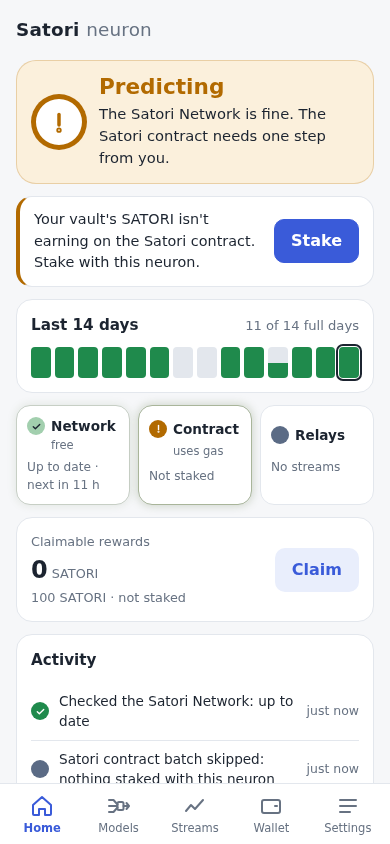
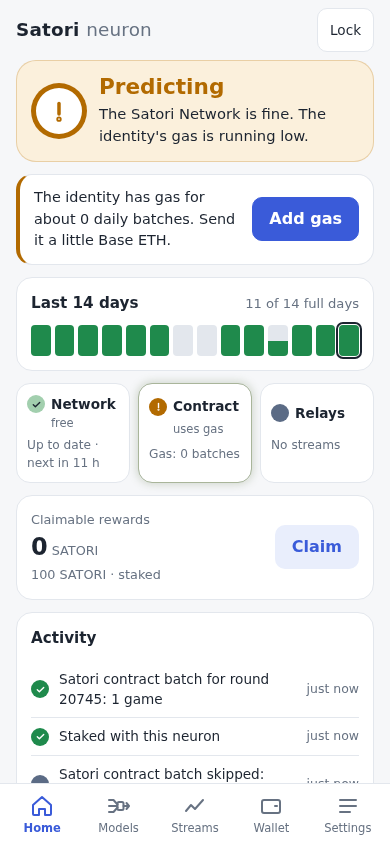
docs: staking out of sync (health, base, the issue: fixed on humble 86e2bdb3, live once D7 deploys; llms.txt); screenshots from the fork

Changed region(s): [[0.0308, 0.0924, 0.9538, 0.955], [0.7692, 0.8009, 0.9231, 0.9242], [0.8615, 0.0308, 0.9231, 0.0616]]

diff --git a/docs/design/health.md b/docs/design/health.md
@@ -128,11 +128,12 @@ push out the neuron's own news.
 
 ### Reasons, in priority order
 
-The action card shows the highest one that has an action, so there is at
-most one card. Its button does the thing, or goes to the place it is done.
-The order is by level (`LEVEL` in `src/neuron/health.js`), so advice owns
-the card only when no warn or bad reason is present (each of those has a
-button).
+The action card shows the highest one that has words for it (`text`), so
+there is at most one card. Its button does the thing, or goes to the place
+it is done; `stake-out-of-sync` alone has no button (there is nothing to
+press until the contract fix: the card says what to know). The order is by
+level (`LEVEL` in `src/neuron/health.js`), so advice owns the card only when
+no warn or bad reason is present.
 
 | # | Reason | Level | Why this level | Channel | When | Button |
 |---|---|---|---|---|---|---|
@@ -141,17 +142,18 @@ button).
 | 3 | `central-failing` | bad | the failures span a real cycle: nothing went out for 12 h of open time | network | the last cycle failed, and no good cycle within `WINDOW_S` of open time (`FIRST_S` with none yet) | Try again (a poll) |
 | 4 | `central-overdue` | bad | nothing went out for a whole cycle of open time | network | no good cycle within `WINDOW_S` of open time (`FIRST_S` with none yet) | Poll now |
 | 5 | `base-failing` | bad | the paying Base batch keeps failing: each round's earning is lost | contract | the batch check failed twice in a row while Base is in use (staked, or a batch sent before) | Open Settings (Base) |
+| 5b | `stake-out-of-sync` | bad | the vault's SATORI can't be unstaked until the contract fix (the token-hook bug), and more SATORI in the vault only adds to it | contract | staked with this neuron, the identity accepts only this vault, and its power is under the vault's SATORI (`base.vault.inSync === false`, [below](#staking-out-of-sync)) | none: the card says "Unstaking will fail until the contract fix. Don't add SATORI to the vault." |
 | 6 | `relays-down` | bad | the streams the person subscribed are not predicted at all | relays | streams are subscribed and every relay is down | Open Settings (relays) |
 | 7 | `central-failed` | warn | it retries in minutes on its own (2, 10, 30 min), but something may need fixing | network | the last cycle failed (once or more), within `WINDOW_S` of open time of the last good one | Try again |
 | 8 | `vault-mismatch` | warn | central pays this vault's rewards to another address, or to none: earning lost | network | register's `vault_base_address` is another Base address than this vault's (the card shows both), or null (central has no vault for this identity); not when a central does not send it | Open Settings (keys) |
 | 9 | `not-registered` | warn | central may not count or pay this neuron until it registers | network | registering failed (each poll registers again first, until it succeeds) | Try again (a poll) |
-| 10 | `stake` | warn | the vault's SATORI earns nothing on Base until it is staked (with no SATORI there is no reason: the Base chip is off, grey) | contract | not staked, and the vault holds SATORI: "Your vault's SATORI isn't earning on Base. Stake with this neuron." | Stake |
 | 11 | `gas-low` | warn | under 7 days of batches left, then Base earning stops; only the person can add ETH | contract | staked, and the identity's ETH pays for under 7 batches | Add gas (Wallet) |
 | 12 | `base-skipped` | warn | this round's Base batch, and its earning, is lost unless it is fixed | contract | staked, and this round's check skipped for a fixable reason (the gas ceiling; no game passed its simulation) | Open Settings (Base) / Open Wallet |
 | 13 | `base-unreachable` | warn | the Base batch and the wallet can't be read or sent while the chain does not answer | contract | the chain did not answer | Open Settings (Base) |
 | 14 | `asleep` | idle | not a problem: it catches up on its own; a calm state the title names | network | *Was asleep* (above) | none |
 | 15 | `starting` | idle | not a problem: its first poll runs at once; a calm state the title names | network | *Starting* (above) | none |
 | 16 | `backup` | advice | nothing is wrong: the browser may clear storage some day, and a backup protects the vault | – | storage is not persistent and no backup is confirmed | Back up |
+| 16b | `stake` | advice (warn until 2026-10-19) | nothing is wrong: the vault's SATORI could earn on the Satori contract, and staking carries a known risk until the contract fix, which the card says before staking; the chip stays "Not staked" (off, grey) | contract | not staked, and the vault holds SATORI: "Stake with this neuron to earn on the Satori contract. While staked, your SATORI can't be sent until you unstake. A known contract issue can block unstaking; a fix is coming in the next contract release." | Stake |
 | 17 | `install` | advice | nothing is wrong now: installed, Satori stays open in its own window and misses less | – | *Was asleep*, and the browser offers Install | Install |
 | 18 | `relay-down` | advice | another relay still carries the predictions and it keeps retrying; the network is not paid | relays | streams are subscribed and some relay, not all, is down | Open Settings (relays) |
 
@@ -175,6 +177,50 @@ states the title names (*Was asleep*, *Starting*), their line says what the
 neuron is doing, and they have no button. They keep the status `idle`,
 green on Home. The Install suggestion that `asleep` carried is its own
 advice reason now, `install`, so each reason has one level.
+
+### Staking out of sync
+
+The token-hook bug ([../issues/token-hook-gas-estimate.md](../issues/token-hook-gas-estimate.md),
+live on D6 until D7 deploys): SATORI that reaches a staked vault in a
+transaction sent with a normal gas estimate (anyone can send 1 wei, or call
+`claimAirdropFor(vault)`) lands in its balance but not in the identity's
+booked power, and unstaking then underflows (Panic 0x11), for good, until the
+contract fix. So while it is live:
+
+- **Stake is advice, not warn** (2026-10-19): Home is no longer amber for an
+  unstaked vault, and the card says the risk, short and calm, before
+  anyone stakes. The Wallet card's staking note says it too.
+- **The frozen state is detected exactly.** Once the identity accepts only
+  this vault (`allowedDelegator == vault`, set by Stake) and the vault
+  stakes with it, the vault is the identity's only staker, so
+  `predictionDelegateInfo(identity).power` must equal the vault's SATORI
+  (both in the status multicall, one block). Under it is `stake-out-of-sync`
+  (bad): the hero "Staking is out of sync.", the Contract chip "Out of
+  sync", a card with no button ("Unstaking will fail until the contract fix.
+  Don't add SATORI to the vault."), the Wallet card's line and its Staking
+  fact ("· out of sync"). The batch still goes out (the identity keeps its
+  power), so the title stays *Predicting*: only `base-failing` makes it
+  *Partly predicting*.
+- **Not checked** when `allowedDelegator` is not the vault (another
+  address, or open to anyone): other stakers are possible, and their SATORI
+  in the power would hide or fake a shortfall, so nothing is said
+  (`inSync: null`). Also not when not staked here, or not read.
+- **Unstake** simulates first; the underflow (Panic 0x11) is said in the same
+  plain words ("Staking is out of sync. Unstaking will fail until the
+  contract fix. Don't add SATORI to the vault."), not "reverted: Panic", and
+  nothing is sent.
+
+Checked live on the fork of Base Sepolia (the real D6 contracts; 2026-10-19,
+the dev app, a fresh profile): Stake (three transactions), then `node
+scripts/fork.mjs grief <vault>`: 1 wei at the bare estimate (110,514 gas),
+`TransferHookFailed`; the identity's power 100, the vault's SATORI
+100.000000000000000001: Home red with the reason, the Wallet card and
+Unstake said it, and `satori.unstake()` rejects with it.
+
+<img src="../screenshots/stake-out-of-sync-home.png" alt="Home: Staking is out of sync" width="240"> <img src="../screenshots/stake-out-of-sync-wallet.png" alt="the Wallet card and Unstake's answer" width="240">
+
+The card has no button here: the card is the highest reason with words for
+it (a reason with an action has a button; this one has only what to know).
 
 **Backup confirmed** (`meta.backup_at`) is set when the vault's words are
 confirmed in Create, given at Restore (also `setup({ vaultWords })`), brought
@@ -358,9 +404,9 @@ health.js map them).
   "Database error", "Login refused", the same failure words once they span
   12 h of open time, "Nothing sent for 14 h".
 - **Contract** (the Satori contract): ok "Round 20742 sent", "Round 20742 due"; idle "Not staked"
-  (no SATORI), "Staked elsewhere", "No SATORI staked", "Connecting…"; warn
-  "Not staked", "Gas: 3 batches", "Skipped: …", "Unreachable"; bad "Failed 3
-  times".
+  (off: with SATORI too, since staking is advice), "Staked elsewhere", "No SATORI staked", "Connecting…"; warn
+  "Gas: 3 batches", "Skipped: …", "Unreachable"; bad "Failed 3
+  times", "Out of sync".
 - **Relays** (the Satori relays): idle "No streams" (nothing subscribed); ok "2 relays"; advice
   "1 of 2 relays down" (sky, or green while working); bad "Relays down". A
   relay that is connecting counts as up.
@@ -565,7 +611,11 @@ each state on a phone (390 × 844, the first screen) and a computer (1280
 wide), light and dark, `docs/screenshots/home-<state>-<phone|desktop>-<light|dark>.png`
 for `ok`, `idle`, `warn` and `bad`, and `new` (a new neuron's first day).
 
-<img src="../screenshots/home-ok-phone-light.png" alt="ok: predicting" width="240"> <img src="../screenshots/home-idle-phone-light.png" alt="idle: caught up after being asleep, predicting" width="240"> <img src="../screenshots/home-warn-phone-dark.png" alt="warn: Base needs one step" width="240"> <img src="../screenshots/home-bad-phone-dark.png" alt="bad: the Satori Network refused the login" width="240">
+<img src="../screenshots/home-ok-phone-light.png" alt="ok: predicting" width="240"> <img src="../screenshots/home-idle-phone-light.png" alt="idle: caught up after being asleep, predicting" width="240"> <img src="../screenshots/home-warn-phone-dark.png" alt="warn: the identity's gas is low" width="240"> <img src="../screenshots/home-bad-phone-dark.png" alt="bad: the Satori Network refused the login" width="240">
+
+The Stake card, advice (the hero stays green; the risk said before staking):
+
+<img src="../screenshots/home-stake-phone-light.png" alt="the Stake card as advice" width="240">
 
 A failed send, retried (`e2e/home.spec.js`, the second failure minutes
 after the first: amber, "Sending failed; next try in 10 min."; it was red):

diff --git a/docs/design/base.md b/docs/design/base.md
@@ -99,6 +99,7 @@ One `aggregate3` call to Multicall3 (`src/chain/index.js`, `status()`), plus
 | `rewards.effectivePredictorFee(identity)` | 10 % until set to 0 (`C/SatoriRewards.sol:119-143`) |
 | `hub.allowedDelegator(identity)` | the one vault that may stake with the identity (`C/next/SatoriHub.sol:813-819,1007`) |
 | `token.transferLockedUntil(vault)` | when the vault's SATORI can be sent |
+| (the identity's power and `allowedDelegator`, the vault's SATORI, above) | whether the stake is booked right: `vault.inSync` ([below](#staking-out-of-sync-the-token-hook-bug)) |
 | `token.getCurrentRound()`, `getCurrentBlockTimestamp()` | the round (`block.timestamp / 86400`, `C/next/SatoriToken.sol:329-331`) and chain time |
 | `lens.getTotalClaimableRewards(vault)` | on-chain rewards (`C/SatoriRewardsLens.sol:319-324`) |
 | `airdrop.claimableAirdrop(vault)` | the vested airdrop (`C/SatoriAirdrop.sol:187-191`) |
@@ -133,6 +134,41 @@ plus the dapp's instant-signing setup (`UI/components/GameWalletPanel.tsx:536-59
 
 **Unstake**: the vault sends `delegatePredictionPower(0x0)`
 (BP:292-301). Its SATORI can't be sent through the next round (above).
+
+### Staking out of sync (the token-hook bug)
+
+On D6 (until D7 deploys the fix from `humble` 86e2bdb3), SATORI that reaches
+a staked vault in a transaction sent with the node's gas estimate (anyone's
+1 wei, `claimAirdropFor(vault)`) skips the hook that books it into the
+identity's power, and unstaking then underflows (Panic 0x11) for good
+([issue](../issues/token-hook-gas-estimate.md)). So, while it is live:
+
+- Home offers Stake as advice (not warn), and its card, like the Wallet
+  card's staking note, says the risk before staking: "While staked, your
+  SATORI can't be sent until you unstake. A known contract issue can block
+  unstaking; a fix is coming in the next contract release."
+- `stakeSync` (`src/neuron/base.js`) checks it exactly from the status
+  multicall: once the identity accepts only this vault (`allowedDelegator ==
+  vault`) and the vault stakes with it, the vault is its only staker, so
+  `predictionDelegateInfo(identity).power` must equal `balanceOf(vault)`.
+  `status().base.vault.inSync`: `true`; `false` when the power is under the
+  balance (`shortfall`: the SATORI not booked), Home's bad reason
+  `stake-out-of-sync` ([health.md](health.md#staking-out-of-sync)) and the
+  Wallet card's line; `null` (not checked) when `allowedDelegator` is
+  another address or none (other stakers are possible, so their SATORI
+  could hide or fake a shortfall), when not staked here, or not read.
+- Unstake simulates first: the underflow is said plainly ("Staking is out of
+  sync. Unstaking will fail until the contract fix. Don't add SATORI to the
+  vault.") and nothing is sent.
+- On D7 a starved transfer reverts with `HookFailedWithoutReason()` instead
+  (in `NEXT_ERRORS`, `src/chain/abi.js`, apart from the D6 ABI check), said
+  as "The transaction ran out of gas; try again".
+
+Reproduced on the fork (the real D6 contracts, 2026-10-19): Stake, then
+`node scripts/fork.mjs grief <vault>` (1 wei at the bare estimate, 110,514
+gas, `TransferHookFailed`): power 100, balance 100.000000000000000001,
+`inSync: false`, Home red, Unstake refused in plain words
+([screenshots](health.md#staking-out-of-sync)).
 
 Words: "Stake with this neuron" / "Unstake", "Staked: 100 SATORI with this
 neuron" / "Not staked", as Lite says it ("Stake your vault & predict on
@@ -339,6 +375,7 @@ gas price. Measured on the fork: 408k gas for a round's first one-game batch,
 | The vault's Base address is computed from its public key, in clear in the keys record. | Status without Unlock; Lite needs the decrypted vault. |
 | The dev server's default RPC is a local fork (`/rpc`). | By default a dev checkout does not send to a public chain. |
 | Every contract write's gas limit is the estimate + 500,000. | The token's try/catch hook ([issue](../issues/token-hook-gas-estimate.md)). |
+| Stake is offered as advice with the risk said, and a stake out of sync is detected and shown (Lite and the dapp do neither). | The token-hook bug is live on D6: staking can freeze the vault, through anyone else's transaction. |
 | A named stream (a signed counter) is forecast on changes (`bar1d`). | Lite's engine falls back to the last value, which votes DOWN forever. |
 
 ## UI and agents
@@ -484,5 +521,9 @@ The Wallet's card staked, with the batch and the Stake transactions
   stream's next value moves (and stakers' rewards can show).
 - `stream [name]`: a new stream from the deployer (a 0.001 SATORI burn) with
   one value; its game has no voting weight, so the batch leaves it out.
+- `grief <address>`: the token-hook bug: 1 wei of SATORI from the deployer
+  with the bare gas estimate, as any wallet sends it; it prints the hook
+  events (`TransferHookFailed` on anvil). A staked vault is then out of
+  sync and can't unstake until D7.
 - `stop [--port 8545]`: stops the fork `start` began (its pid is in
   `.fork.<port>.pid`, its log in `.fork.<port>.log`).

diff --git a/docs/issues/token-hook-gas-estimate.md b/docs/issues/token-hook-gas-estimate.md
@@ -1,6 +1,25 @@
 # A staked vault that receives SATORI with an estimated gas limit can never unstake
 
-**Status:** open · **Kind:** fixable flaw (contracts) · **Fix in:** `contract/satori` (a rewards upgrade now; the token and hub at the next redeploy) · **Severity:** anyone can trap any staked vault's SATORI for good, today
+**Status:** Fixed in contracts (humble 86e2bdb3); live once D7 deploys · **Kind:** fixable flaw (contracts) · **Fix in:** `contract/satori` branch `humble` (86e2bdb3, sweep item B1, stamped in 43412a4a) · **Severity:** on D6 (deployed from d9d22632), anyone can trap any staked vault's SATORI for good, until D7
+
+**The fix (contracts, humble 86e2bdb3).** The token reverts a transfer with
+`HookFailedWithoutReason()` when its hook fails with no revert data (out of
+gas), instead of swallowing it; the hub passes an empty-returndata Rewards
+failure up unchanged; the rewards contract's subtraction of the booked amount
+stays as a second layer. Tests: `satori/test/next/DelegationSyncGas.test.js`
+and `SatoriToken.test.js` (MockTransferHook modes 1 to 3). D7, deployed from
+`humble` at or after those commits, fixes the freeze; D6 still has it.
+
+**What the app does until D7** (2026-10-19, [../design/health.md](../design/health.md#staking-out-of-sync)):
+Stake is advice, its card saying the risk before staking; the frozen state
+is detected exactly (the identity accepts only this vault, so its power must
+equal the vault's SATORI) and shown as *Staking is out of sync* on Home, the
+Contract chip and the Wallet card ("Unstaking will fail until the contract
+fix. Don't add SATORI to the vault."); Unstake says the same instead of
+"reverted: Panic". On D7 a starved transfer reverts with
+`HookFailedWithoutReason`, which the app says as "The transaction ran out of
+gas; try again" (`src/chain/abi.js` `NEXT_ERRORS`). `node scripts/fork.mjs
+grief <vault>` reproduces the freeze on the local fork.
 
 Found on the fork while building step 6; confirmed independently on a fork of
 Base Sepolia (block 48160485, round 20741; the deployed D6 bytecode is source

diff --git a/docs/issues/README.md b/docs/issues/README.md
@@ -20,7 +20,7 @@ Design: [../design/OVERVIEW.md](../design/OVERVIEW.md).
 
 | Issue | Where | Precondition |
 |---|---|---|
-| [token-hook-gas-estimate.md](token-hook-gas-estimate.md) | contracts (a rewards upgrade now; token and hub at the next redeploy) | a staked vault receives SATORI (a claim, a transfer, from anyone: 1 wei is enough) with an estimated gas limit: it can never unstake, and its SATORI can never be sent. The browser app pads only its own writes |
+| [token-hook-gas-estimate.md](token-hook-gas-estimate.md) | contracts: fixed on `humble` (86e2bdb3), live once D7 deploys | on D6, a staked vault receives SATORI (a claim, a transfer, from anyone: 1 wei is enough) with an estimated gas limit: it can't unstake, and its SATORI can't be sent. The app pads its own writes, offers staking as advice with the risk said, and detects the frozen state exactly |
 | [central-login-replayable.md](central-login-replayable.md) | central | someone sees one login header set |
 | [central-register-unauthenticated.md](central-register-unauthenticated.md) | central | someone knows a wallet pubkey (public) |
 | [base-batch-one-bad-game-reverts-all.md](base-batch-one-bad-game-reverts-all.md) | Docker neuron (the browser simulates each game) | a game with no new value since our last prediction on it |
